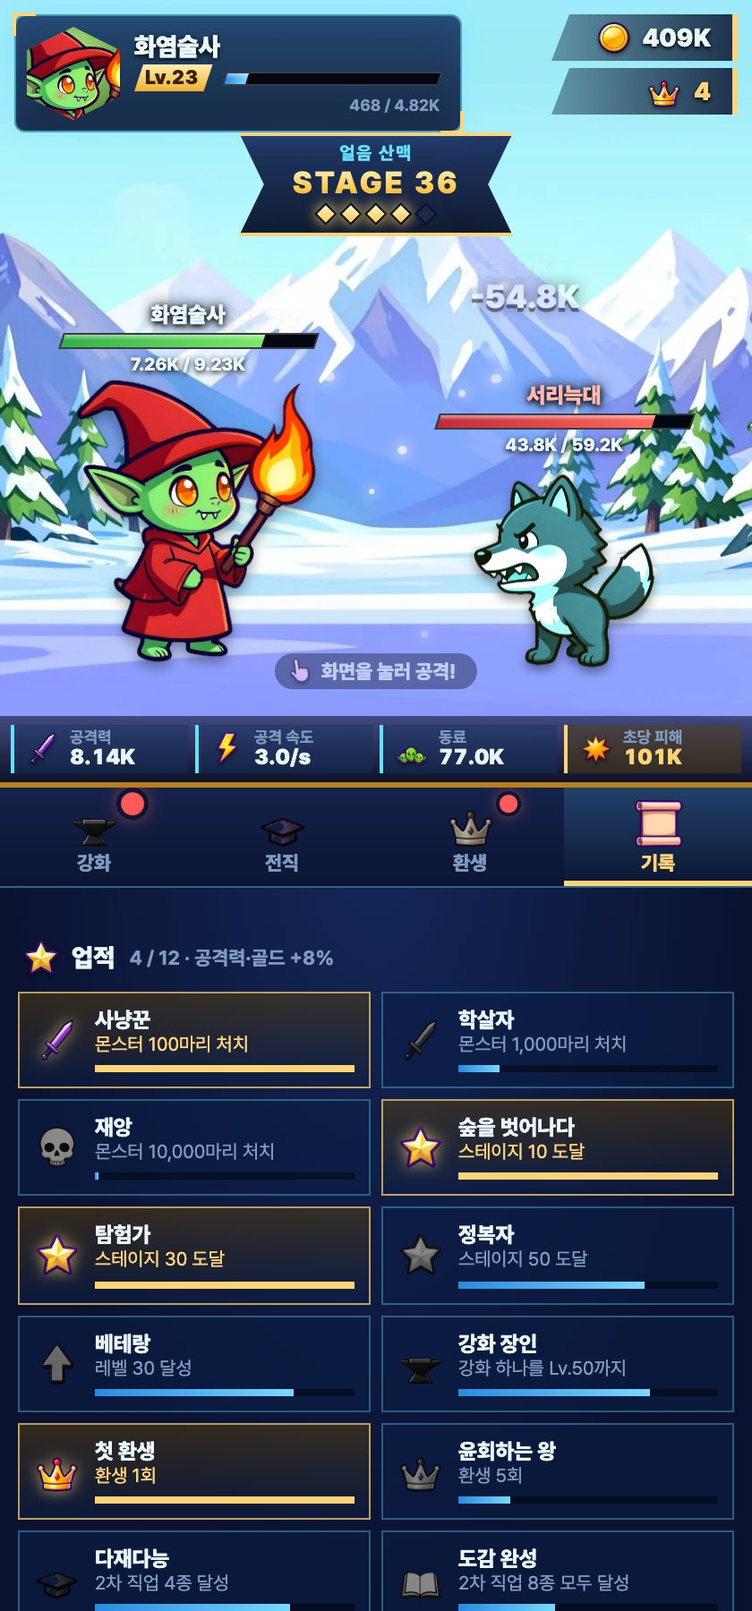
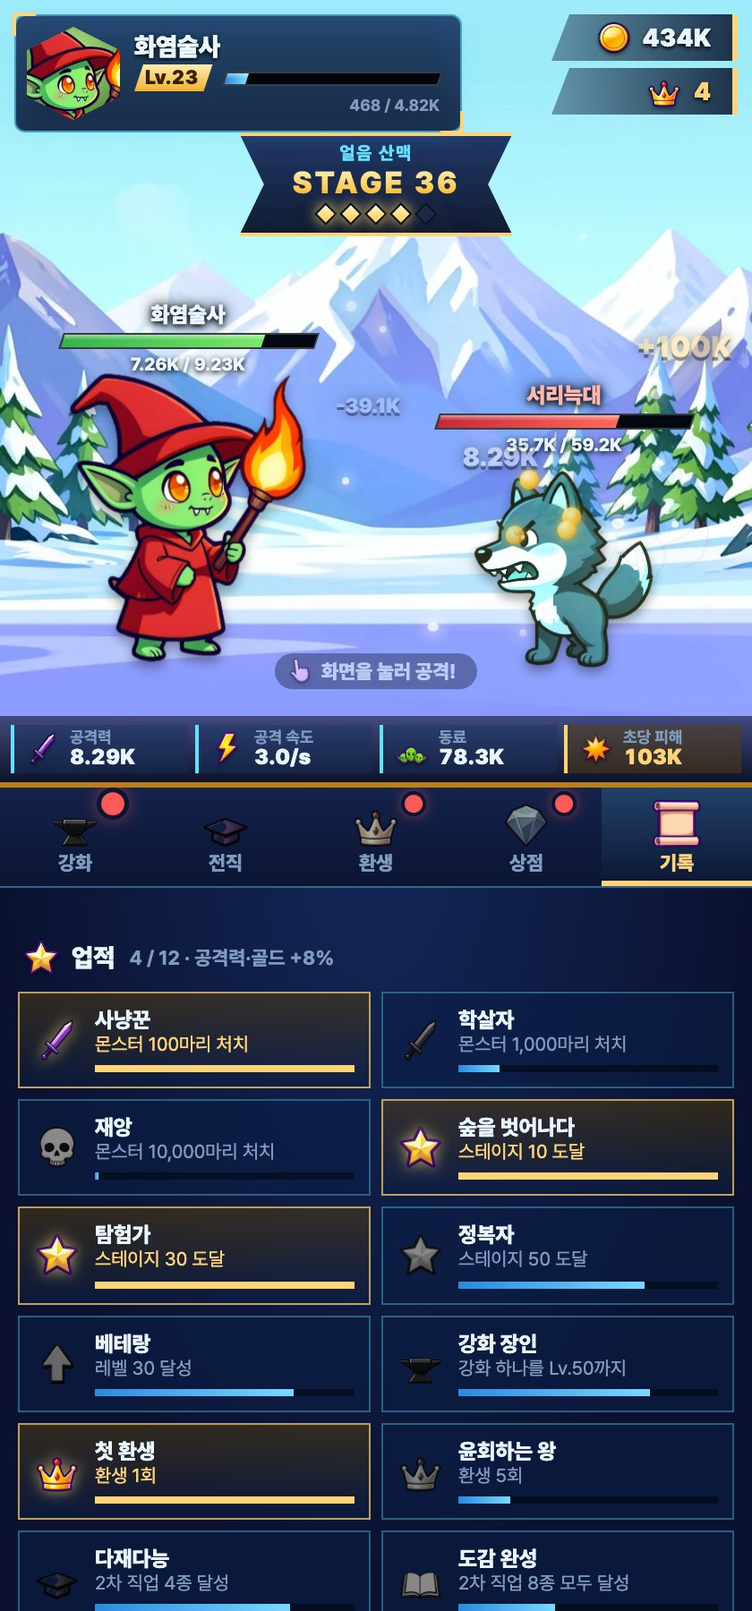
README·스크린샷 갱신, 브라우저 조작 점검 도구와 시뮬레이터 상점 반영

diff --git a/tools/ui-check.js b/tools/ui-check.js
@@ -1,0 +1,113 @@
+// 실제 브라우저(헤드리스 Chrome)에서 게임을 눌러 보며 오류와 상태를 점검한다.
+// 사용법: node tools/ui-check.js [스크린샷을 저장할 폴더(생략하면 저장 안 함)]
+// 탭 공격 모션, 강화·상점 구매(결제 창), 강화 초기화, 도감 창, 10초 전투 안정성, 브라우저 오류를 확인한다.
+const { spawn } = require('child_process');
+const fs = require('fs'), os = require('os'), path = require('path');
+const G = require('../game.js');
+const ROOT = path.resolve(__dirname, '..');
+const OUT = process.argv[2] && path.resolve(process.argv[2]);
+if (OUT) fs.mkdirSync(OUT, { recursive: true });
+const CHROME = process.env.CHROME || '/Applications/Google Chrome.app/Contents/MacOS/Google Chrome';
+const sleep = (ms) => new Promise((r) => setTimeout(r, ms));
+(async () => {
+  const profile = fs.mkdtempSync(path.join(os.tmpdir(), 'flow-'));
+  const chrome = spawn(CHROME,
+    ['--headless=new', '--disable-gpu', '--allow-file-access-from-files', '--remote-debugging-port=9334', `--user-data-dir=${profile}`, 'about:blank'], { stdio: 'ignore' });
+  const errors = [], fails = [];
+  try {
+    let target;
+    for (let i = 0; i < 50 && !target; i++) { await sleep(200); try { target = (await (await fetch('http://127.0.0.1:9334/json')).json()).find((t) => t.type === 'page'); } catch (e) {} }
+    const ws = new WebSocket(target.webSocketDebuggerUrl);
+    await new Promise((r) => (ws.onopen = r));
+    let id = 0; const pend = new Map();
+    ws.onmessage = (e) => { const m = JSON.parse(e.data);
+      if (m.id && pend.has(m.id)) { pend.get(m.id)(m); pend.delete(m.id); }
+      if (m.method === 'Runtime.exceptionThrown') errors.push(m.params.exceptionDetails.exception?.description || m.params.exceptionDetails.text);
+      if (m.method === 'Runtime.consoleAPICalled' && m.params.type === 'error') errors.push(m.params.args.map((a) => a.value || a.description).join(' ')); };
+    const send = (method, params = {}) => new Promise((r) => { pend.set(++id, r); ws.send(JSON.stringify({ id, method, params })); });
+    const ev = async (expression) => { const r = await send('Runtime.evaluate', { expression, awaitPromise: true, returnByValue: true }); return r.result.result?.value; };
+    const shot = async (name) => { if (!OUT) return; const r = await send('Page.captureScreenshot', { format: 'jpeg', quality: 80 }); fs.writeFileSync(path.join(OUT, name + '.jpg'), Buffer.from(r.result.data, 'base64')); };
+    const check = (name, ok, extra = '') => { console.log((ok ? '  통과  ' : '  실패  ') + name + (ok ? '' : '  ' + extra)); if (!ok) fails.push(name); };
+
+    await send('Runtime.enable'); await send('Page.enable');
+    await send('Emulation.setDeviceMetricsOverride', { width: 420, height: 900, deviceScaleFactor: 1, mobile: true });
+
+    // 저장 데이터: 스테이지 20 근처, 증표 20개, 골드 넉넉히
+    const s = G.createState(0); s.tokens = 20; s.gold = 5e4; s.level = 22; s.stage = 21; s.runBest = s.bestStage = 21;
+    s.cls = 'mage'; s.adv = 'pyromancer'; s.mastered.pyromancer = true; s.dex.pyromancer = { best: 24, kills: 300, runs: 1 };
+    s.hp = G.maxHp(s);
+    const save = G.serialize(s, Date.now());
+    fs.writeFileSync(path.join(profile, 'seed.html'), '<!doctype html><title>s</title>');
+    await send('Page.navigate', { url: 'file://' + path.join(profile, 'seed.html') }); await sleep(300);
+    await ev(`localStorage.setItem('goblin-idle-save-v1', ${JSON.stringify(save)})`);
+    await send('Page.navigate', { url: 'file://' + ROOT + '/index.html' }); await sleep(1500);
+
+    console.log('탭 공격 모션');
+    const before = await ev(`document.getElementById('monsterHpText').textContent`);
+    await ev(`(() => { const r = document.getElementById('scene').getBoundingClientRect(); document.getElementById('scene').dispatchEvent(new PointerEvent('pointerdown', { clientX: r.left + r.width*0.68, clientY: r.top + r.height*0.6, bubbles: true, cancelable: true })); })()`);
+    await ev(`window.__probe = document.querySelector('#floatLayer .fx')`);
+    const fxNow = await ev(`document.querySelectorAll('#floatLayer .fx').length`);
+    const heroAnims = await ev(`document.getElementById('hero').getAnimations().length`);
+    const monAnims = await ev(`document.getElementById('monster').getAnimations().length`);
+    check('탭 직후 이펙트 요소(파문·베기·불꽃·동전)가 생긴다', fxNow >= 3, `fx ${fxNow}개`);
+    check('탭 직후 고블린 돌진 애니메이션이 재생된다', heroAnims >= 1, `${heroAnims}개`);
+    check('탭 직후 몬스터 피격 애니메이션이 재생된다', monAnims >= 1, `${monAnims}개`);
+    await sleep(70); await shot('m1');
+    await sleep(110); await shot('m2');
+    await sleep(1400);
+    check('처음 생긴 이펙트 요소는 끝나면 스스로 사라진다', (await ev(`window.__probe && !document.contains(window.__probe)`)) === true);
+    await sleep(900);
+
+    console.log('강화 구매');
+    const lvBefore = await ev(`document.querySelector('.up[data-key="weapon"] .lv').textContent`);
+    await ev(`document.querySelector('.up[data-key="weapon"] .up__btn').click()`); await sleep(200);
+    const lvAfter = await ev(`document.querySelector('.up[data-key="weapon"] .lv').textContent`);
+    check('강화 버튼을 누르면 레벨이 오른다', lvBefore !== lvAfter, `${lvBefore} → ${lvAfter}`);
+
+    console.log('상점 구매 (결제 창)');
+    await ev(`document.querySelector('[data-go="shop"]').click()`); await sleep(400);
+    check('상점 탭이 열린다', await ev(`!document.querySelector('.tab[data-tab="shop"]').hidden`));
+    check('쓸 수 있는 증표가 20개로 보인다', (await ev(`document.getElementById('shopTokens').textContent`)) === '20');
+    await ev(`document.querySelector('[data-perk="might"]').click()`); await sleep(300);
+    check('구매 확인 창이 열린다', await ev(`!document.getElementById('modal').hidden && document.getElementById('modalTitle').textContent === '구매할까요?'`));
+    await shot('shopmodal');
+    await ev(`document.querySelector('#modalActions .btn--gold').click()`); await sleep(400);
+    check('구매하면 용사의 힘이 Lv.1이 된다', (await ev(`document.querySelector('.perk[data-id="might"] .lv').textContent`)).includes('Lv.1'));
+    check('증표가 1개 줄어든다', (await ev(`document.getElementById('shopTokens').textContent`)) === '19');
+    check('상단 증표 표시도 19개', (await ev(`document.getElementById('tokens').textContent`)) === '19');
+    check('잠긴 강화(강타)는 구매 버튼이 없다', (await ev(`!document.querySelector('.perk[data-id="click"] [data-perk]') || document.querySelector('.perk[data-id="click"] [data-perk]').disabled`)));
+
+    // 힘을 3까지 올려 강타를 연다
+    for (let i = 0; i < 2; i++) { await ev(`document.querySelector('[data-perk="might"]').click()`); await sleep(150); await ev(`document.querySelector('#modalActions .btn--gold').click()`); await sleep(250); }
+    check('힘 Lv.3에서 강타가 열린다', await ev(`!!document.querySelector('.perk[data-id="click"] [data-perk]:not(:disabled)')`));
+    await shot('shop2');
+
+    console.log('초기화');
+    await ev(`document.getElementById('respecBtn').click()`); await sleep(250);
+    await ev(`document.querySelector('#modalActions .btn--blue').click()`); await sleep(350);
+    check('초기화하면 증표 20개를 되돌려받는다', (await ev(`document.getElementById('shopTokens').textContent`)) === '20');
+
+    console.log('도감');
+    await ev(`document.querySelector('[data-go="class"]').click()`); await sleep(400);
+    await ev(`document.querySelector('.dexcard.is-on').click()`); await sleep(300);
+    check('도감 카드를 누르면 상세 창이 열린다', await ev(`!document.getElementById('modal').hidden && document.getElementById('modalTitle').textContent === '화염술사'`));
+    await shot('dexmodal');
+    await ev(`document.querySelector('#modalActions .btn').click()`); await sleep(200);
+    await ev(`document.querySelector('.dexcard.is-off').click()`); await sleep(300);
+    check('미달성 카드는 힌트 창이 열린다', await ev(`document.getElementById('modalTitle').textContent === '???'`));
+    await ev(`document.querySelector('#modalActions .btn').click()`);
+
+    console.log('오래 돌려도 안정적인가 (전투 10초)');
+    await ev(`document.querySelector('[data-go="upgrade"]').click()`);
+    await sleep(10000);
+    check('이펙트 요소가 쌓이지 않는다 (40개 이하)', (await ev(`document.getElementById('floatLayer').children.length`)) <= 40);
+    await shot('after10s');
+    ws.close();
+  } finally {
+    const closed = new Promise((r) => chrome.once('exit', r)); chrome.kill(); await Promise.race([closed, sleep(3000)]);
+    try { fs.rmSync(profile, { recursive: true, force: true, maxRetries: 5, retryDelay: 200 }); } catch (e) {}
+  }
+  console.log('\n브라우저 오류: ' + (errors.length ? '\n' + errors.join('\n') : '없음'));
+  console.log(fails.length ? '실패 ' + fails.length + '개: ' + fails.join(', ') : '모든 점검 통과');
+  process.exitCode = errors.length || fails.length ? 1 : 0;
+})();

diff --git a/tools/screenshot.js b/tools/screenshot.js
@@ -15,10 +15,12 @@ const sleep = (ms) => new Promise((r) => setTimeout(r, ms));
 
 // 봇이 강화를 사면서 플레이한 것처럼 진행시켜 보기 좋은 저장 데이터를 만든다.
 // until(s)이 참이 되는 순간에서 멈추고, 전직은 레벨 조건을 채웠을 때만 한다 (불가능한 상태를 만들지 않음).
-function makeSave({ until, cls, adv, promoteAdv = true, tokens = 0, prestiges = 0, mastered = [] }) {
+function makeSave({ until, cls, adv, promoteAdv = true, tokens = 0, prestiges = 0, mastered = [], dex = {}, perks = {} }) {
   const s = G.createState(0);
   s.tokens = tokens;
   s.prestiges = prestiges;
+  s.perks = perks;
+  Object.assign(s.dex, dex);
   for (const m of mastered) s.mastered[m] = true;
   for (let t = 0; t < 4 * 3600 && !until(s); t++) {
     G.simulate(s, 1);
@@ -70,6 +72,14 @@ async function main() {
     });
     const evalJs = (expression) => send('Runtime.evaluate', { expression, awaitPromise: true });
 
+    // 화면 코드에서 난 오류를 모아 마지막에 알려 준다 (정지 화면만 봐서는 놓치기 쉽다)
+    const errors = [];
+    const onError = (m) => {
+      if (m.method === 'Runtime.exceptionThrown') errors.push(m.params.exceptionDetails.exception?.description || m.params.exceptionDetails.text);
+      if (m.method === 'Runtime.consoleAPICalled' && m.params.type === 'error') errors.push(m.params.args.map((a) => a.value || a.description).join(' '));
+    };
+    ws.addEventListener('message', (e) => onError(JSON.parse(e.data)));
+    await send('Runtime.enable');
     await send('Page.enable');
     await send('Emulation.setDeviceMetricsOverride', { width: 420, height: 900, deviceScaleFactor: 2, mobile: true });
     const url = 'file://' + path.join(ROOT, 'index.html');
@@ -79,13 +89,14 @@ async function main() {
     const seedPage = 'file://' + path.join(profile, 'seed.html');
     fs.writeFileSync(path.join(profile, 'seed.html'), '<!doctype html><title>seed</title>');
 
-    async function shot(name, save, { tab, wait = 1800 } = {}) {
+    async function shot(name, save, { tab, scroll, wait = 1800 } = {}) {
       await send('Page.navigate', { url: seedPage });
       await sleep(400);
       await evalJs(`localStorage.setItem('goblin-idle-save-v1', ${JSON.stringify(save)})`);
       await send('Page.navigate', { url });
       await sleep(wait);
       if (tab) { await evalJs(`document.querySelector('[data-go="${tab}"]').click()`); await sleep(500); }
+      if (scroll) { await evalJs(`document.querySelector('${scroll}').scrollIntoView()`); await sleep(300); }
       const r = await send('Page.captureScreenshot', { format: 'jpeg', quality: 85, captureBeyondViewport: false });
       fs.writeFileSync(path.join(OUT, name + '.jpg'), Buffer.from(r.result.data, 'base64'));
       console.log('저장:', path.join(path.relative(ROOT, OUT), name + '.jpg'));
@@ -97,8 +108,14 @@ async function main() {
     await shot('battle-ice', makeSave({ until: (s) => s.stage >= 33, ...mage, tokens: 4 }));    // 얼음 산맥
     await shot('class', makeSave({ until: (s) => s.level >= 20, ...mage, promoteAdv: false, tokens: 2 }), { tab: 'class' });
     await shot('achievements', makeSave({ until: (s) => s.stage >= 36, ...mage, tokens: 4, prestiges: 1 }), { tab: 'log' });
+    await shot('shop', makeSave({ until: (s) => s.stage >= 20, ...mage, tokens: 24, perks: { might: 4, greed: 3, vitality: 2, click: 1 } }), { tab: 'shop' });
+    await shot('codex', makeSave({
+      until: (s) => s.level >= 20, ...mage, tokens: 8, mastered: ['knight', 'sniper', 'necromancer'],
+      dex: { knight: { best: 41, kills: 2310, runs: 3 }, sniper: { best: 22, kills: 604, runs: 1 }, necromancer: { best: 57, kills: 5120, runs: 4 } },
+    }), { tab: 'class', scroll: '#codex' });
     await shot('prestige', makeSave({ until: (s) => s.stage >= 25, ...mage, tokens: 4 }), { tab: 'prestige' });
     ws.close();
+    if (errors.length) { console.error('\n화면 코드 오류:\n' + errors.join('\n')); process.exitCode = 1; }
   } finally {
     const closed = new Promise((res) => chrome.once('exit', res));
     chrome.kill();

diff --git a/tools/simulate.js b/tools/simulate.js
@@ -40,14 +40,27 @@ function runOne(path, minutes) {
   return { s, marks };
 }
 
+// 증표로 상점 강화를 산다: 가장 싼 것부터, 살 수 있는 만큼 (기본 3가지를 먼저 올리는 것과 비슷한 효과)
+function spendTokens(s) {
+  for (;;) {
+    let best = null, bestCost = Infinity;
+    for (const id of G.PERK_KEYS) {
+      if (G.canBuyPerk(s, id) && G.perkCost(s, id) < bestCost) { best = id; bestCost = G.perkCost(s, id); }
+    }
+    if (!best) return;
+    G.buyPerk(s, best);
+  }
+}
+
 // 정체되면 환생하는 봇. 한 판을 minutes분씩 돌려 몇 번째 판에 어디까지 가는지 본다.
-function runPrestiges(path, runMinutes, runs) {
+function runPrestiges(path, runMinutes, runs, usePerks) {
   const s = G.createState(0);
   const out = [];
   for (let i = 0; i < runs; i++) {
     playRun(s, path, runMinutes * 60, []);
-    out.push({ run: i + 1, stage: s.runBest, tokens: s.tokens });
+    out.push({ run: i + 1, stage: s.runBest, tokens: s.tokens, spent: G.perkSpent(s) });
     G.prestige(s);
+    if (usePerks) spendTokens(s);
   }
   return out;
 }
@@ -67,6 +80,11 @@ for (const p of selected) {
   console.log(p.join('/').padEnd(20) + marks.map((m) => fmtMin(m.t)).join(' ') + `  ${String(s.runBest).padStart(3)}  ${s.level}`);
 }
 
-console.log('\n== 환생 반복 (한 판 15분씩 6번) ==');
+console.log('\n== 환생 반복 (한 판 15분씩 10번) ==');
 const demo = only ? selected[0] : ['mage', 'pyromancer'];
-console.log(demo.join('/') + ': ' + runPrestiges(demo, 15, 6).map((r) => `${r.run}판→${r.stage}`).join('  '));
+const show = (rs) => rs.map((r) => `${r.run}판→${r.stage}`).join('  ');
+console.log(demo.join('/') + ' (증표 상점 안 씀): ' + show(runPrestiges(demo, 15, 10, false)));
+const withPerks = runPrestiges(demo, 15, 10, true);
+console.log(demo.join('/') + ' (증표 상점 사용): ' + show(withPerks));
+const last = withPerks[withPerks.length - 1];
+console.log(`  10판 뒤 누적 증표 ${last.tokens}개, 상점에 쓴 증표 ${last.spent}개`);

diff --git a/README.md b/README.md
@@ -5,11 +5,15 @@
 **[▶ 바로 플레이하기](https://hongsunsik.github.io/goblin-idle/)**
 
 <p align="center">
-  <img src="docs/battle.jpg" width="19%" alt="어둠의 동굴 보스전">
-  <img src="docs/battle-ice.jpg" width="19%" alt="얼음 산맥">
-  <img src="docs/class.jpg" width="19%" alt="2차 전직 선택">
-  <img src="docs/achievements.jpg" width="19%" alt="업적">
-  <img src="docs/prestige.jpg" width="19%" alt="환생">
+  <img src="docs/battle.jpg" width="24%" alt="어둠의 동굴 보스전">
+  <img src="docs/battle-ice.jpg" width="24%" alt="얼음 산맥">
+  <img src="docs/class.jpg" width="24%" alt="2차 전직 선택">
+  <img src="docs/codex.jpg" width="24%" alt="직업 도감">
+</p>
+<p align="center">
+  <img src="docs/shop.jpg" width="24%" alt="증표 상점">
+  <img src="docs/achievements.jpg" width="24%" alt="업적">
+  <img src="docs/prestige.jpg" width="24%" alt="환생">
 </p>
 
 ## 게임 방법
@@ -33,11 +37,34 @@
 - 마법사 → **화염술사**(직접 공격) / **사령술사**(동료)
 - 도적 → **암살자**(공격) / **해적**(골드)
 
-직업마다 능력치 배율이 달라서 성장 방향이 바뀌고, 고블린의 모습도 직업에 맞게 바뀝니다. 2차 전직을 달성한 직업은 **도감**에 기록되고, 하나당 공격력·골드가 영구히 +5%씩 오릅니다.
+직업마다 능력치 배율이 달라서 성장 방향이 바뀌고, 고블린의 모습도 직업에 맞게 바뀝니다.
+
+#### 직업 도감
+
+2차 전직을 달성한 직업은 **도감**에 기록되고, 하나당 공격력·골드가 영구히 +5%씩 오릅니다. 도감은 1차 직업별로 묶여 있고, 카드를 누르면 자세한 정보가 나옵니다.
+
+- **기록:** 그 직업으로 도달한 **최고 스테이지**, **처치 수**, **전직 횟수**
+- **등급:** 최고 스테이지 20 / 35 / 50에 도달하면 동·은·금 메달을 받고, 등급 하나마다 그 직업의 보너스가 +1%p 늘어납니다. (직업 하나의 최대 보너스는 +8%)
+- 아직 만나지 못한 직업은 실루엣과 "어느 직업에서 전직하는지" 힌트만 보입니다.
 
 ### 환생
 
 스테이지 10 이상에서 환생하면 골드·레벨·강화·스테이지·**직업**이 처음으로 돌아가지만, **왕의 증표**를 얻어 공격력과 골드가 영구히 +40%씩 강해집니다. 직업이 초기화되므로 다른 직업을 골라 다시 키워 볼 수 있고, 도감은 그대로 남습니다.
+
+### 증표 상점
+
+환생으로 얻은 **왕의 증표**를 써서 **영구 강화**를 삽니다. 산 강화는 환생해도 남습니다. 증표를 써도 공격력·골드 +40%(지금까지 번 증표 기준)는 줄지 않습니다.
+
+| 단계 | 강화 | 효과 (레벨마다) | 열리는 조건 |
+|---|---|---|---|
+| 1 | 용사의 힘 / 탐욕 / 강철 체력 | 공격력 / 골드 / 체력 +10% (최대 Lv.10) | 없음 |
+| 2 | 강타 | 직접 공격 +25% (최대 Lv.5) | 용사의 힘 Lv.3 |
+| 2 | 동료의 유대 | 동료 공격 +10% (최대 Lv.10) | 강철 체력 Lv.3 |
+| 2 | 든든한 휴식 | 오프라인 보상 한도 +1시간 (최대 Lv.4) | 탐욕 Lv.3 |
+| 3 | 빠른 출발 | 환생 후 무기·갑옷을 Lv.+3 상태로 시작 (최대 Lv.5) | 용사의 힘 Lv.5 |
+| 3 | 왕의 위엄 | 공격력·골드 +5% (최대 Lv.5) | 용사의 힘 Lv.5 + 탐욕 Lv.5 |
+
+가격은 레벨이 오를수록 비싸지고(다음 레벨 = 기본 가격 × (현재 레벨 + 1)개), 구매하기 전에 무엇을 얼마에 사는지 **확인 창**이 뜹니다. **강화 초기화**를 누르면 쓴 증표를 전부 돌려받아 다른 강화에 다시 쓸 수 있습니다. 전부 채우려면 증표가 445개 필요합니다.
 
 ### 업적
 
@@ -55,6 +82,7 @@
 - **고블린 13종** (견습 1 + 1차 4 + 2차 8): 직업마다 모자·옷·무기가 다릅니다.
 - **몬스터 13종**: 슬라임, 박쥐, 늑대, 멧돼지, 거미, 뱀, 해골, 유령, 전갈, 골렘, 악마, 오거, 용. 그림은 종류마다 한 장이지만, **지역마다 CSS 색 필터를 씌워서** 얼음 지역에서는 청록빛, 사막에서는 모래빛으로 다르게 보입니다(`art.js`의 `BIOME_TINT`). 세피아로 색을 한 톤에 모은 뒤 색상을 돌려서, 원래 색이 제각각인 몬스터도 같은 지역 색으로 맞췄습니다.
 - **아이콘 22종**: 칼, 방패, 왕관, 주머니 등. 이모지 대신 같은 스타일로 통일했습니다.
+- **전투 모션:** 고블린은 웅크렸다가(예비 동작) 돌진하고 멈칫했다가 돌아오며, 몬스터는 닿는 순간 밀려나고 하얗게 번쩍입니다. 쓰러질 때는 튕겨 날아가며 사라지고 동전이 튀며, 새 몬스터는 통통 튀며 나타납니다. 보스 등장은 붉은 번쩍임과 화면 흔들림, 레벨업은 금빛 고리, HP 바는 깎인 만큼 잔상이 남았다가 따라옵니다. 숫자는 종류마다 뜨는 자리를 나눠서 겹치지 않게 했습니다.
 - **화면 구성:** 이세계 애니메이션의 '스테이터스 창'에서 착안해 청록색 홀로그램 창과 금색 모서리 장식, 각진 금색 버튼으로 꾸몄습니다. 배경은 하늘섬과 구름, 햇살이 있는 일러스트풍이고 지역마다 색이 바뀝니다.
 
 ## 사용한 기술
@@ -74,13 +102,15 @@
 - **게임 로직과 화면 코드를 분리했습니다.** `game.js`는 화면과 무관한 순수 함수만 담고, `app.js`가 화면 갱신과 입력 처리를 맡습니다. 덕분에 `game.js`는 Node.js에서 화면 없이 시뮬레이션할 수 있습니다.
 - **밸런스를 시뮬레이션으로 조정했습니다.** 강화를 자동으로 사고 전직·환생하는 봇으로 몇 시간 치 플레이를 돌려 성장 곡선을 확인합니다(`node tools/simulate.js`).
   - 처음 버전은 초반이 너무 빠르고(5분에 스테이지 20) 후반이 막혔습니다(증표 194개, 공격력 약 49배인데도 스테이지 40에서 8판 이상 정체). 강화 효과는 더하기로 늘어나는데 비용은 곱하기로 늘어서 생기는 벽이었습니다.
-  - 여러 조정안을 같은 방식으로 비교해서, 강화 레벨 10마다 효과를 1.5배로 하는 마일스톤과 몬스터 성장 곡선을 골랐습니다. 지금은 스테이지 10이 약 4분, 20이 약 7분, 30이 약 10분에 나오고, 40 부근(약 15~19분)부터 벽이 시작되어 한 판의 한계는 45~50 부근입니다. 환생을 거듭하면(한 판 15분 기준) 36 → 55 → 60 → 65로 올라가다 65 부근에서 멈춥니다.
+  - 여러 조정안을 같은 방식으로 비교해서, 강화 레벨 10마다 효과를 1.5배로 하는 마일스톤과 몬스터 성장 곡선을 골랐습니다. 지금은 스테이지 10이 약 4분, 20이 약 7분, 30이 약 10분에 나오고, 40 부근(약 15~19분)부터 벽이 시작되어 한 판의 한계는 45~50 부근입니다. 환생을 거듭하면(한 판 15분 기준) 36 → 55 → 60 → 65로 올라가다 65 부근에서 멈추고(10판째 72), 증표 상점을 쓰는 봇은 10판째 80까지 갑니다. 상점을 다 채우는 데는 증표 445개(약 35판)가 들어서 장기 목표가 됩니다.
   - 8가지 직업 경로가 30분 기준 서로 3스테이지 안에서 비슷하게 성장하는지도 확인했습니다(42~45). 2차 전직 레벨을 30에서 20으로 낮춘 것도 이 시뮬레이션 결과입니다(30이면 도달하기 전에 대부분 환생해서 볼 수 없었습니다).
 - **오프라인 보상도 같은 전투 코드로 계산합니다.** 별도 공식을 두지 않고 실제 전투를 빠르게 되감아 돌려서, 접속 중일 때와 결과가 어긋나지 않습니다. 오래 비운 경우 계산 간격을 넓혀 계산량을 줄입니다.
 - **직업을 데이터로 정의했습니다.** 직업마다 능력치 배율표(`mult`)만 적으면 계산식에 자동 반영되어, 새 직업을 추가하기 쉽습니다.
 - **깨진·조작된 저장 데이터에도 안전합니다.** 불러올 때 값의 범위를 보정하고, 없는 직업이나 맞지 않는 직업 조합, 없는 업적은 걷어냅니다. 업적이 생기기 전의 예전 저장 데이터도 그대로 불러옵니다. 저장소를 쓸 수 없는 환경에서도 게임은 동작합니다.
 - **업적 판정도 로직 쪽에 있습니다.** 화면은 결과(`achieve` 사건)를 받아 그리기만 하고, 판정은 처치·레벨업 같은 사건이 있을 때만 해서 매 틱 계산하지 않습니다. 업적 보너스가 밸런스 시뮬레이션에도 자동으로 들어갑니다.
-- **로직 테스트가 있습니다.** `node tools/test.js`가 업적, 저장·불러오기, 환생, 오프라인 보상, 진행 속도 회귀를 화면 없이 점검합니다.
+- **로직 테스트가 있습니다.** `node tools/test.js`(27개)가 업적, 직업 도감, 증표 상점, 저장·불러오기, 환생, 오프라인 보상, 진행 속도 회귀를 화면 없이 점검합니다.
+- **산 강화는 저장하지 않고 계산합니다.** 쓴 증표를 따로 저장하면 저장 데이터를 고쳐서 속일 수 있어서, 산 강화 레벨에서 쓴 증표를 매번 계산합니다. 번 것보다 많이 쓴 저장 데이터는 산 강화를 되돌립니다.
+- **모션은 Web Animations로 넣었습니다.** 움직임은 `transform`·`opacity`·`filter`만 써서 휴대폰에서도 부드럽고, 화면에 떠 있는 이펙트 수를 제한해 빠르게 싸워도 쌓이지 않습니다. 운영체제의 '동작 줄이기' 설정을 켜면 움직임을 끕니다.
 - **화면을 자주 그려도 가볍게 했습니다.** 초당 10번 갱신하지만 바뀐 값만 화면에 씁니다.
 
 ## 파일 구성
@@ -96,6 +126,7 @@
 | `docs/` | README에 쓰는 스크린샷 |
 | `tools/make-manifest.js` | `images/` 폴더를 훑어 `manifest.js`를 만드는 스크립트 |
 | `tools/generate-images.py` | 이미지 생성 (Pollinations API, 키는 저장소 밖 파일에서 읽음) |
+| `tools/ui-check.js` | 실제 브라우저에서 눌러 보는 점검 (탭 공격 모션, 강화·상점 구매, 도감 창, 브라우저 오류) |
 | `tools/test.js` | 게임 로직 테스트 (업적, 저장, 환생, 오프라인 보상, 진행 속도) |
 | `tools/simulate.js` | 밸런스 시뮬레이터 (봇이 30분·환생 반복을 플레이해 성장 곡선 출력) |
 | `tools/screenshot.js` | 진행된 저장 데이터를 넣고 헤드리스 Chrome으로 `docs/` 스크린샷을 찍음 |
